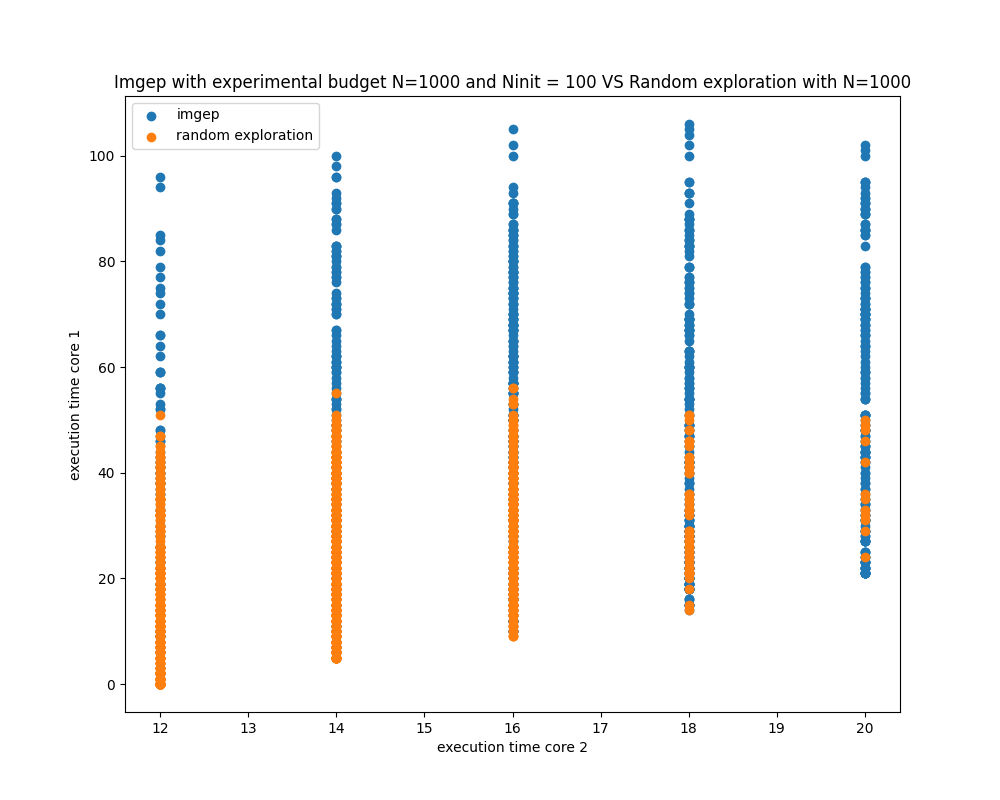
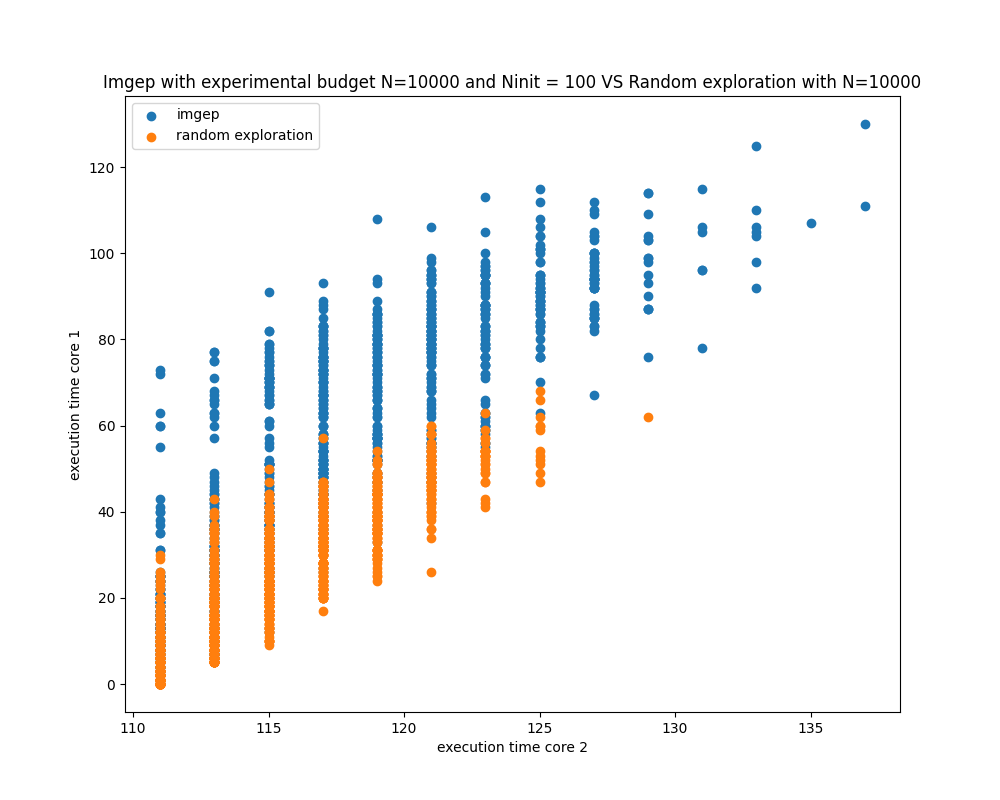
longer program

diff --git a/random_exploration/main.py b/random_exploration/main.py
@@ -15,30 +15,29 @@ import pickle
 if __name__=="__main__":
     print(__name__)
     class RandomExploration:
-        def __init__(self,N:int,H:History):
+        def __init__(self,code:list[str],N:int,H:History):
             """
             N:int. Experimental budget
             """
             self.N = N
             self.H = H
+            self.code = code
         def __call__(self):
             for i in range(self.N):
                 core1_code = generate_random_assembly(np.random.randint(0,20,1)[0])
                 core1_exec_time, core2_exec_time = simulate_dual_core(
                                                     core1_code = core1_code,
-                                                    core2_code =["MUL R3, R4",
-                                                                "STORE R1, 20",
-                                                                "MOV R5, R6",
-                                                                "LOAD R1, 10",
-                                                                "ADD R1, R2",
-                                                                "MUL R3, R4",])
+                                                    core2_code = self.code)
                 self.H.store({"program":[core1_code],
                              "signature": [{"core1_exec_time": core1_exec_time,
                                             "core2_exec_time": core2_exec_time}]})
-    N = 1000
+    N = 10000
     max_size = 1000
     H = History(max_size)
-    randomexploration = RandomExploration(N, H)
+
+    with open("../imgep_with_homemade_mutation_operator/code.pickle", "rb") as f:
+        Code = pickle.load(f)
+    randomexploration = RandomExploration(Code,N, H)
     randomexploration()
     print("signatures:",H.memory_signature)
     H.representation()

diff --git a/imgep_with_homemade_mutation_operator/imgep.py b/imgep_with_homemade_mutation_operator/imgep.py
@@ -89,7 +89,7 @@ class OptimizationPolicy:
 
 
 class IMGEP:
-    def __init__(self,N:int, N_init:int,H:History, G:GoalGenerator, Pi:OptimizationPolicy):
+    def __init__(self,code:list[str],N:int, N_init:int,H:History, G:GoalGenerator, Pi:OptimizationPolicy):
         """
         N: int. The experimental budget
         N_init: int. Number of experiments at random
@@ -104,6 +104,13 @@ class IMGEP:
         self.G = G
         self.N_init = N_init
         self.Pi = Pi
+        self.code = code
+        #self.core2_code =["MUL R3, R4",
+        #                "STORE R1, 20",
+        #                "MOV R5, R6",
+        #                "LOAD R1, 10",
+        #                "ADD R1, R2",
+        #                "MUL R3, R4",]
     def __call__(self):
         for i in range(self.N):
             if i<self.N_init:
@@ -118,12 +125,8 @@ class IMGEP:
                  
             core1_exec_time, core2_exec_time = simulate_dual_core(
             core1_code = core1_code,
-            core2_code =["MUL R3, R4",
-                        "STORE R1, 20",
-                        "MOV R5, R6",
-                        "LOAD R1, 10",
-                        "ADD R1, R2",
-                        "MUL R3, R4",])
+            core2_code = self.code
+                        )
             self.H.store({"program":[core1_code],
                          "signature": [{"core1_exec_time": core1_exec_time,
                                         "core2_exec_time": core2_exec_time}]})

diff --git a/imgep_with_homemade_mutation_operator/main.py b/imgep_with_homemade_mutation_operator/main.py
@@ -7,14 +7,19 @@ sys.path.append("../")
 from mcpu5 import simulate_dual_core
 import matplotlib.pyplot as plt
 import pickle
+from utils import generate_random_assembly
 if __name__=="__main__":
     max_size = 1000 #max_size for the history
-    N = 1000 #experimental budget
+    N = 10000 #experimental budget
     N_init = 100 #Budget for random exploration at the begin
     Pi = OptimizationPolicy()
     G = GoalGenerator() 
     H = History(max_size = max_size)
-    Imgep = IMGEP(N, N_init, H, G, Pi)
+
+    Code = generate_random_assembly(50)
+    with open('code.pickle', 'wb') as f:
+            pickle.dump(Code,f)
+    Imgep = IMGEP(Code,N, N_init, H, G, Pi)
 
     #Exploration
     Imgep()

diff --git a/comparaison.py b/comparaison.py
@@ -8,7 +8,7 @@ if __name__=="__main__":
     with open("random_exploration/dict/randomexploration.pickle","rb") as f:
         random_exploration = pickle.load(f)
     N_init = 100
-    N = 1000
+    N = 10000
     plt.figure(figsize=(10,8))
     plt.scatter(imgep["core2_exec_time"],imgep["core1_exec_time"], label="imgep")
     plt.scatter(random_exploration["core2_exec_time"],random_exploration["core1_exec_time"], label="random exploration")
